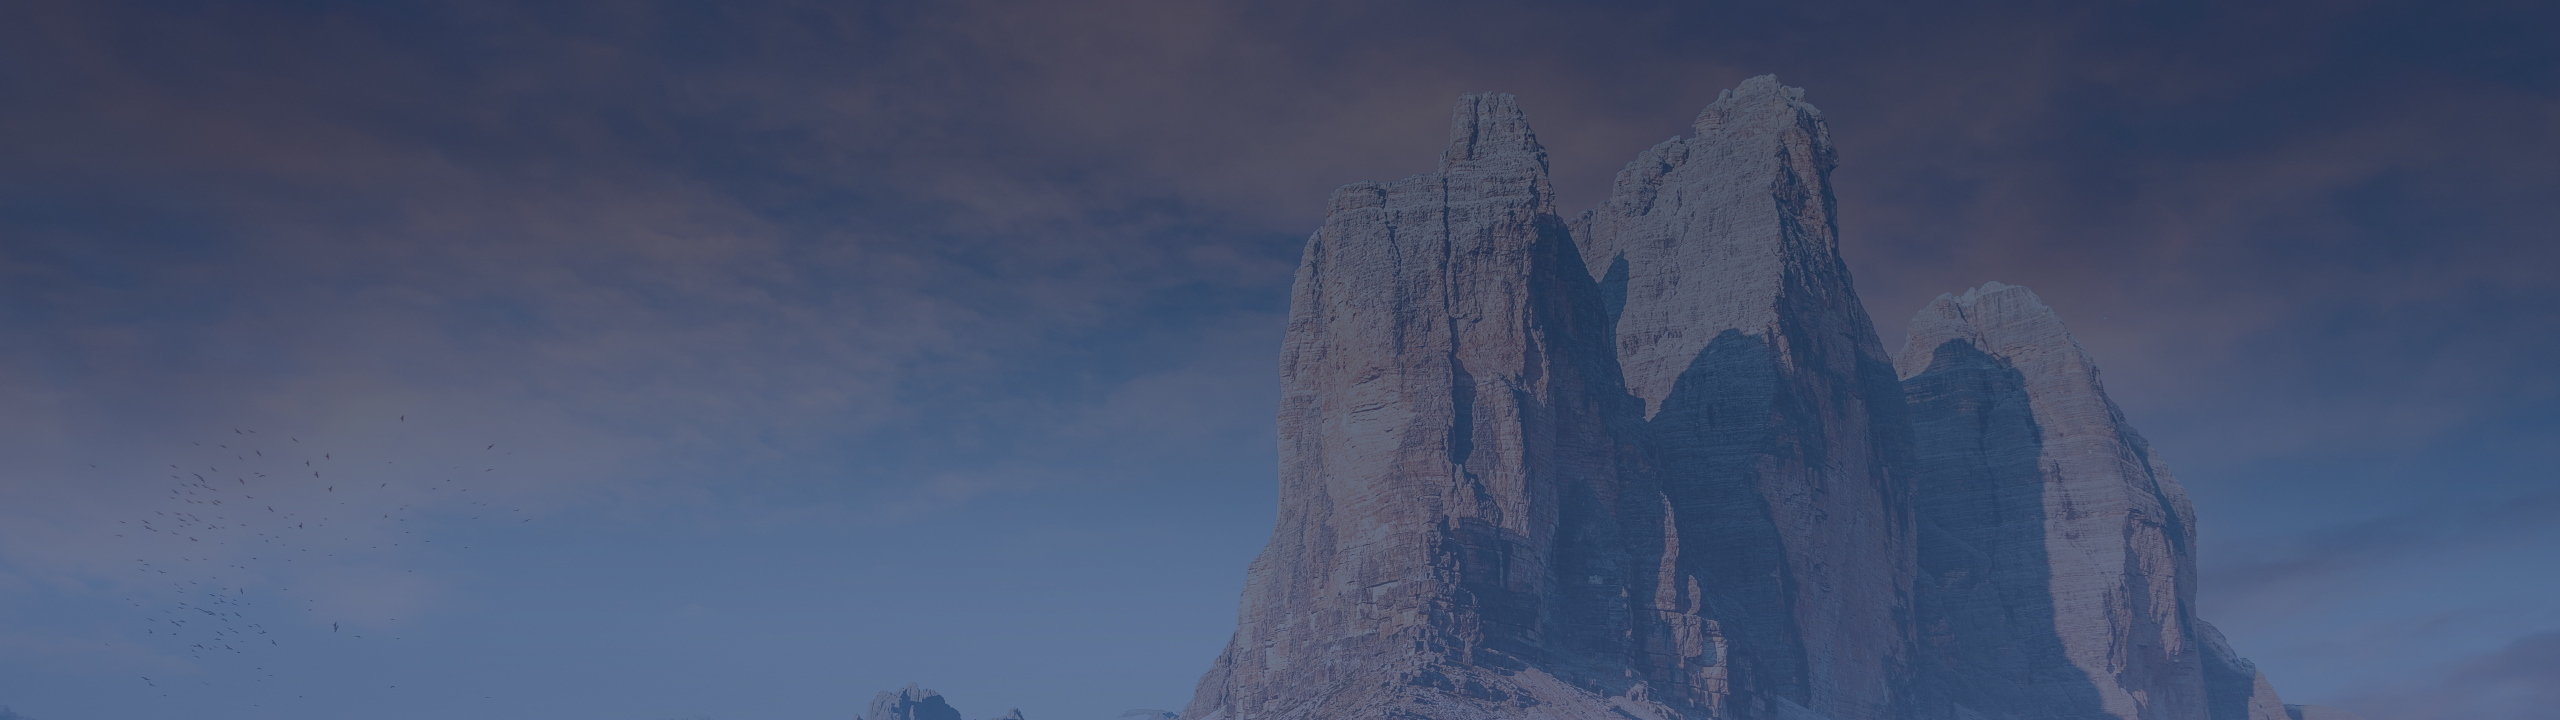
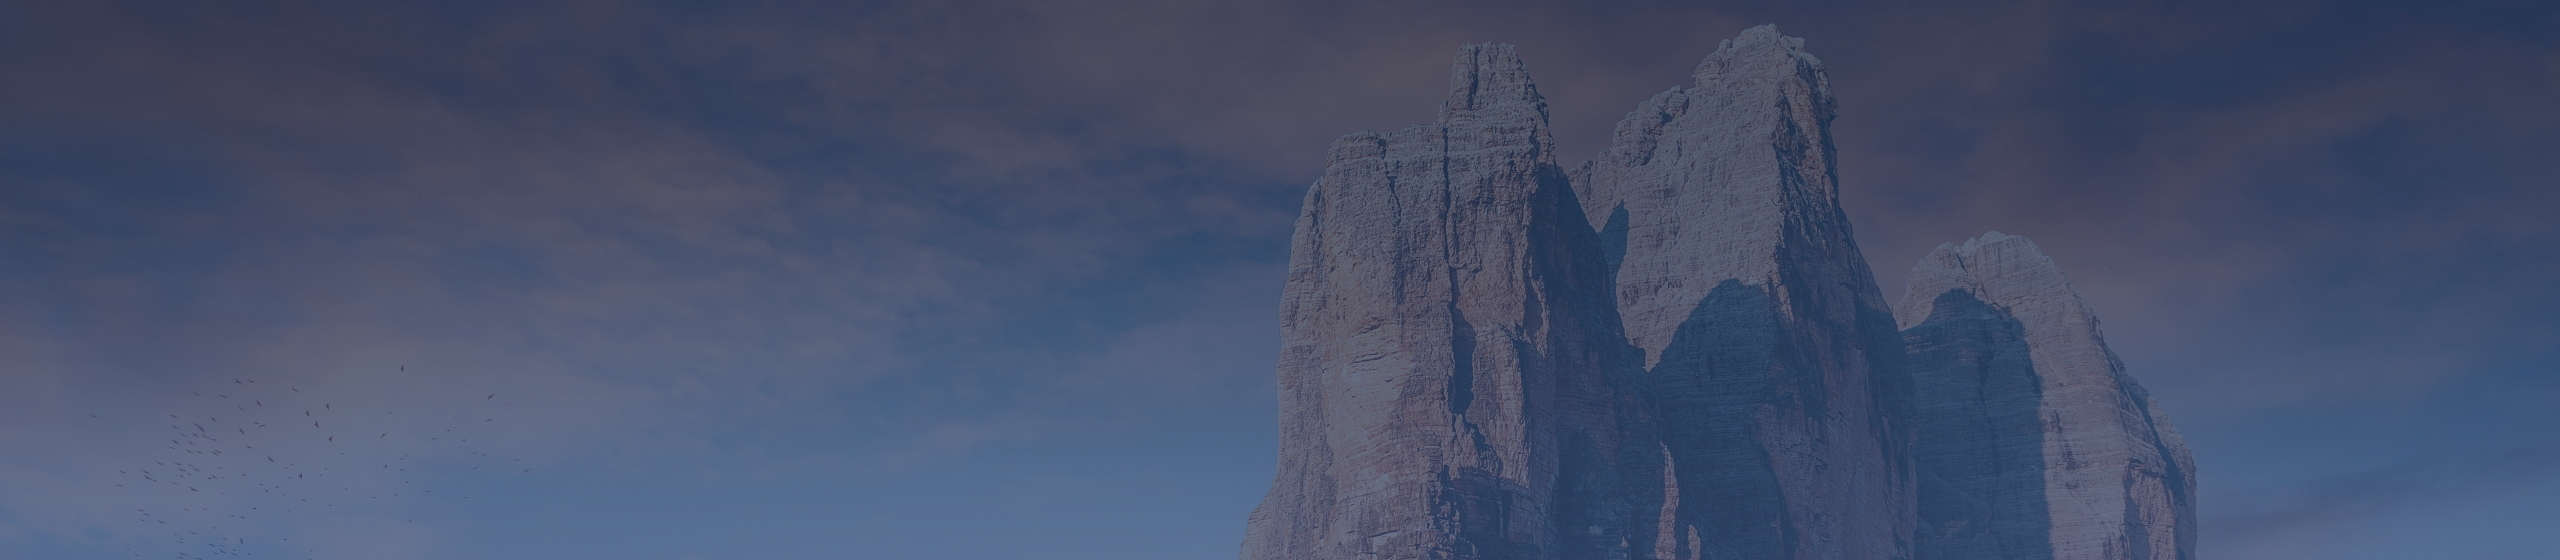
updated header image

diff --git a/src/components/Landing/Header/styles.module.css b/src/components/Landing/Header/styles.module.css
@@ -39,21 +39,21 @@
     .heroBanner {
         background-image: url("/img/landing/header4k.jpg");
         background-size: cover;
-        min-height: 720px;
+        min-height: 560px;
     }
 }
 
 @media screen and (min-width: 1921px) {
     .heroBanner {
         background-image: url("/img/landing/header4k.jpg");
-        min-height: 720px;
+        min-height: 560px;
     }
 }
 
 @media screen and (max-width: 1920px) {
     .heroBanner {
         background-image: url("/img/landing/header.png");
-        min-height: 550px;
+        min-height: 420px;
     }
 }
 
